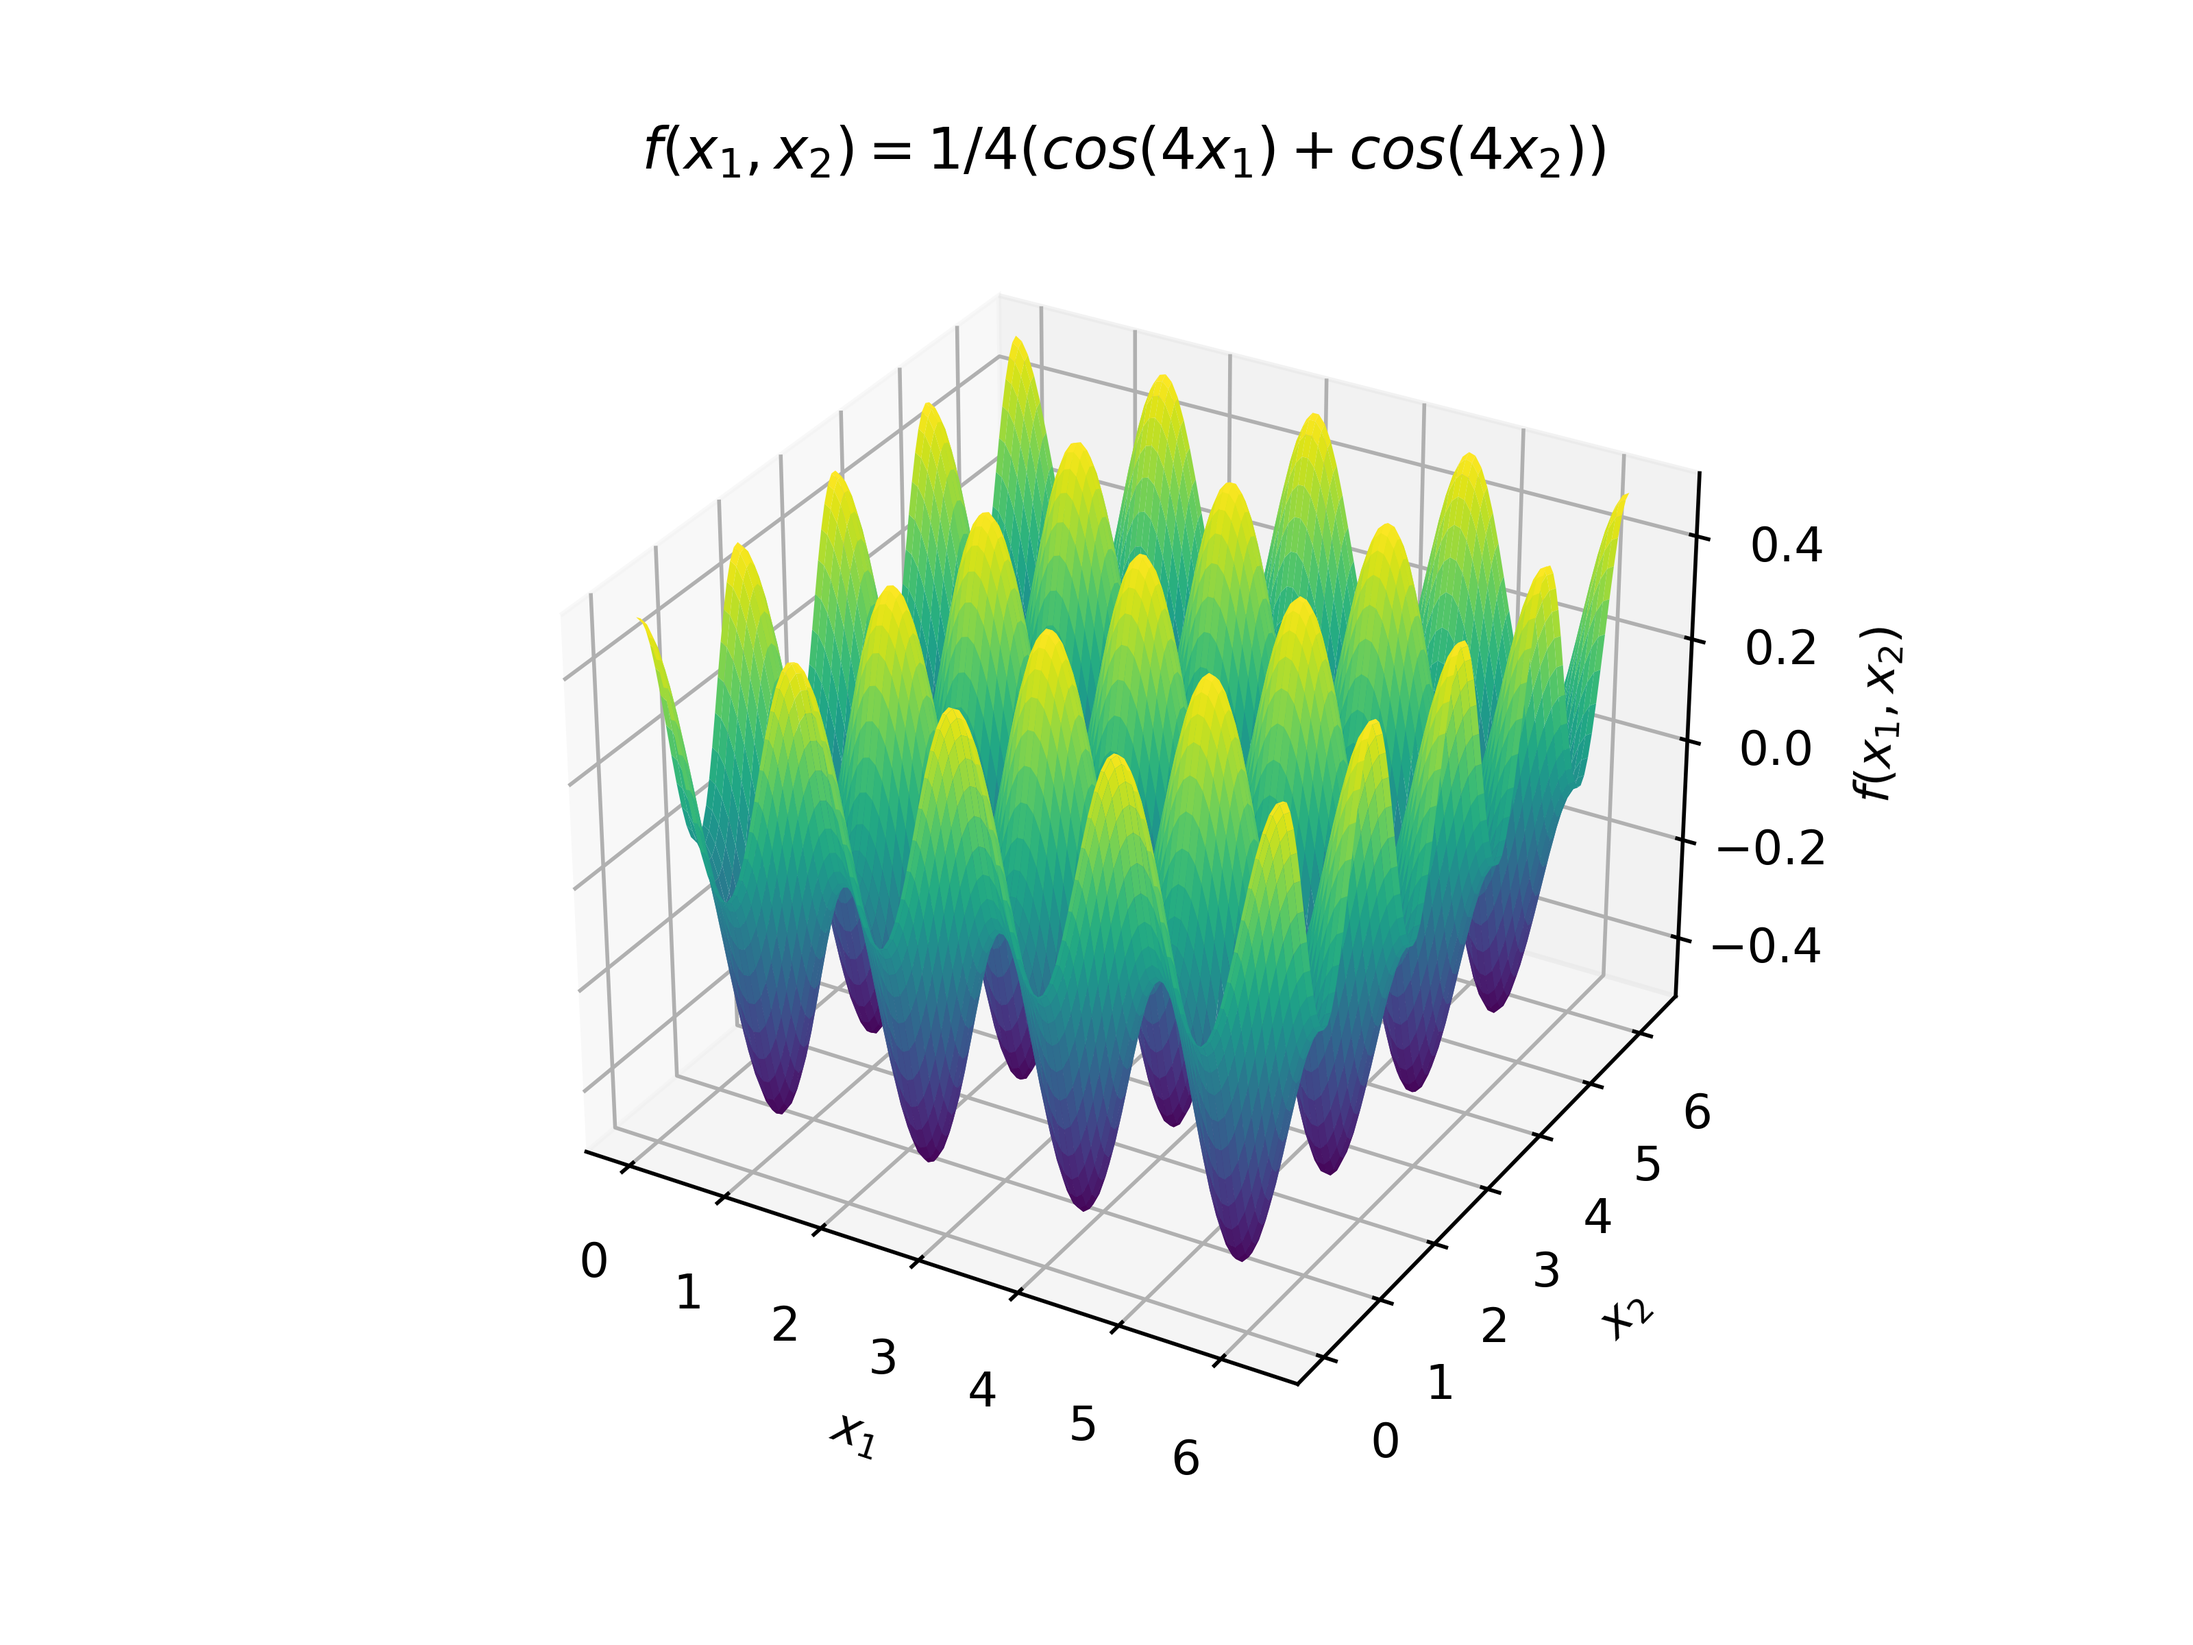
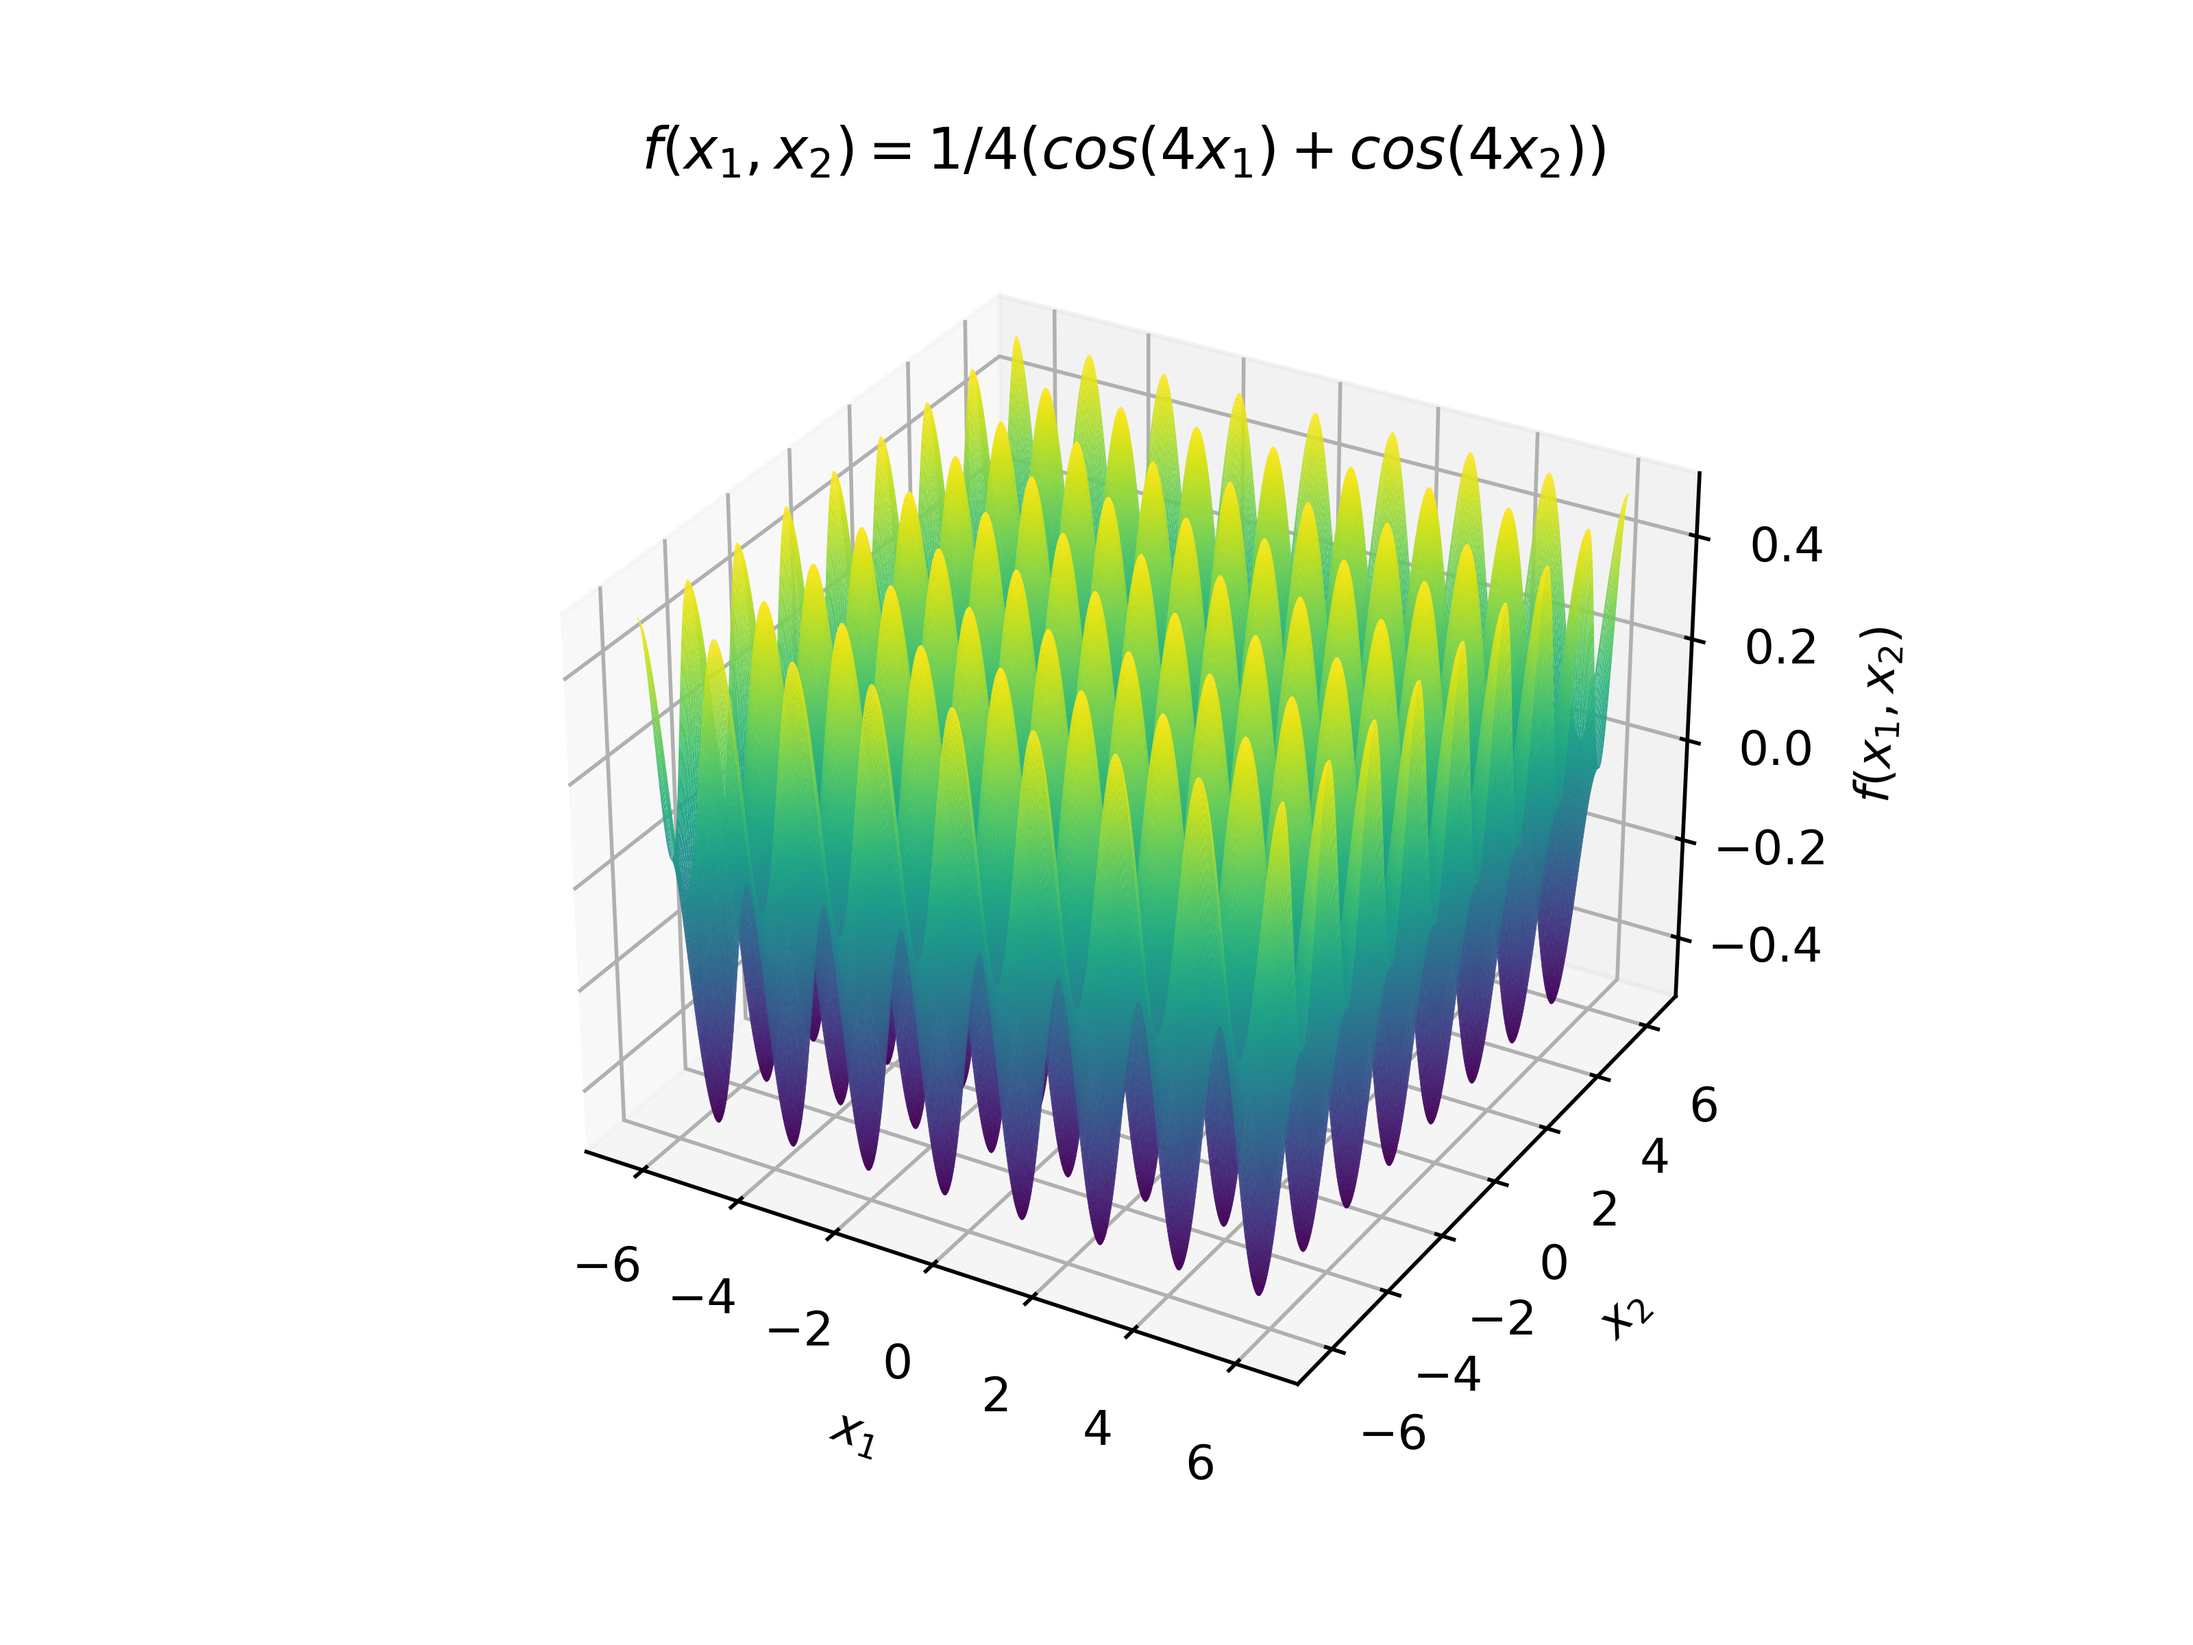
plots + testing

diff --git a/BA_testing.py b/BA_testing.py
@@ -179,6 +179,72 @@ def get_max_N_values(list, N):
         values.append(max_value)
     return values, idx
 
+def plot_rosenbrock_gradient():
+    file = "results/preliminary_tests/rosenbrock2D_projection_2025-02-12.json"
+    with open(file) as f:
+        d = json.load(f)
+        result = d["822"]
+        sc_values = np.asarray(result["SC values"])
+        sample_points = np.asarray(result["sample points"])
+        X = sample_points[:,0]
+        Y = sample_points[:,1]
+        tasc = float(result["tasc"])
+        gradients = []
+        hessians = []
+        for point in sample_points:
+            gradients.append(sp.optimize.approx_fprime(point, rosen_projection_to_2d))
+            hessians.append(calc_hessian(rosen_projection_to_2d, point))
+        gradients = np.asarray(gradients)
+        print(tasc)
+        ax = plt.subplot(111, projection='3d')
+        sc = ax.scatter(X, Y, gradients[:,0], c=sc_values,cmap="viridis")
+        ax.set(xlabel='$x_1$', ylabel='$x_2$', zlabel='gradient')
+        plt.title(f"Partial Gradients ($\partial/\partial x_1$) of Rosenbrock function\nfor $x_3=1$ at sample points. TASC = {tasc}")
+        cbar = plt.colorbar(sc)
+        cbar.set_label("$\partial/\partial x_1$", labelpad=10)
+        plt.savefig("plots/preliminary_tests/Rosenbrock_2Dprojection_gradientsx1_sample_points.png")
+        plt.close()
+        del ax
+        ax = plt.subplot(111, projection='3d')
+        sc = ax.scatter(X, Y, gradients[:,1], c=sc_values,cmap="viridis")
+        ax.set(xlabel='$x_1$', ylabel='$x_2$', zlabel='gradient')
+        cbar = plt.colorbar(sc)
+        cbar.set_label("$\partial/\partial x_2$", labelpad=10)
+        plt.title(f"Partial Gradients ($\partial/\partial x_2$) of Rosenbrock function\nfor $x_3=1$ at sample points. TASC = {tasc}")
+        plt.savefig("plots/preliminary_tests/Rosenbrock_2Dprojection_gradientsx2_sample_points.png")
+        plt.close()
+
+def analyse_rosenbrock_gradient():
+    #r_values = [1, 0.1, 0.01, 0.001, 0.0001]
+    r_values = [0.01]
+    c= np.asarray([1,1])
+    print(f"Analyzing gradient and hessian norm around {c} for 2D Rosenbrock")
+    print(f"number of sample points per radius: 100000")
+    print("----------------------------")
+    maximums = {}
+    for r in r_values:
+        sample_points = sample_n_ball_uniform(n=2, r=r, c=c, N=100000)
+        gradients = []
+        hessians = []
+        for point in sample_points:
+            gradients.append(sp.optimize.approx_fprime(point, rosen_projection_to_2d))
+            hessians.append(calc_hessian(rosen_projection_to_2d, point))
+        gradients = np.asarray(gradients)
+        hessians = np.asarray(hessians)
+        print(f"Radius {r}")
+        grad_norm = np.linalg.norm(gradients, axis=1)
+        hess_norm = np.linalg.norm(hessians, axis=(1,2))
+        max_grad = np.max(grad_norm)
+        max_hess = np.max(hess_norm)
+        print("Gradient Norm")
+        print(f"Median: {np.median(grad_norm)}, Mean: {np.mean(grad_norm)}, Minimum: {np.min(grad_norm)}, Maximum: {max_grad}")
+        print("Hessian Norm")
+        print(f"Median: {np.median(hess_norm)}, Mean: {np.mean(hess_norm)}, Minimum: {np.min(hess_norm)}, Maximum: {max_hess}")
+        print("----------------------------")
+        maximums[r] = [max_grad, max_hess]
+    return maximums
+
+
 def plot_rosenbrock_SC():
     file = "results/preliminary_tests/rosenbrock2D_projection_2025-02-12.json"
     with open(file) as f:
@@ -290,5 +356,6 @@ if __name__ == "__main__":
     #print(calc_total_absolute_scalar_curvature(rosen,r,c,N=1000))
     #testing_rosenbrock_3D(dim=2)
     #test_rosenbrock_derivatives()
-    plot_rosenbrock_SC()
+    maximums = analyse_rosenbrock_gradient()
+    print(maximums)
 

diff --git a/BA_random_tests.py b/BA_random_tests.py
@@ -52,7 +52,7 @@ def calc_landscape_tasc(grid_point_array, r=0):
 def cosine_2D(x):
     if len(x) != 2:
         raise Exception
-    Z = (1/1) * (cos(1 * x[0]) + cos(1 * x[1]))
+    Z = (1/2) * (cos(2 * x[0]) + cos(2 * x[1]))
     return Z
 
 def cosine_2D_tasc():
@@ -72,8 +72,8 @@ def cosine_2D_tasc():
     print("tsc", np.mean(tscs))
     print("masc", np.mean(mascs))
     print("msc", np.mean(mscs))
-    filepath = "plots/preliminary_tests/cosine_2D_v3.png"
-    x = np.linspace(0,stepsize,100)
+    filepath = "plots/preliminary_tests/cosine_2D_v2.png"
+    x = np.linspace(-stepsize,stepsize,500)
     X,Y = np.meshgrid(x,x)
     ax = plt.subplot(111, projection='3d')
     values = []
@@ -83,7 +83,7 @@ def cosine_2D_tasc():
     values = np.reshape(np.asarray(values), X.shape)
     ax.plot_surface(Y, X, values, rstride=1, cstride=1, cmap=cm.viridis, linewidth=0.1) #switch Y and X, since that's how our TASC value landscapes are computed
     ax.set(xlabel='$x_1$', ylabel='$x_2$', zlabel="$f(x_1,x_2)$")
-    plt.title("$f(x_1,x_2) = (cos(x_1)+cos(x_2))$")
+    plt.title("$f(x_1,x_2) = 1/2(cos(2x_1)+cos(2x_2))$")
     plt.savefig(filepath, dpi=500)
     plt.close()
 
